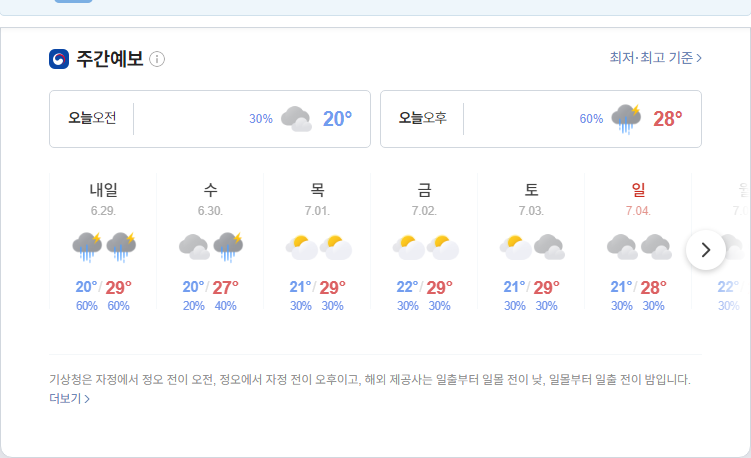
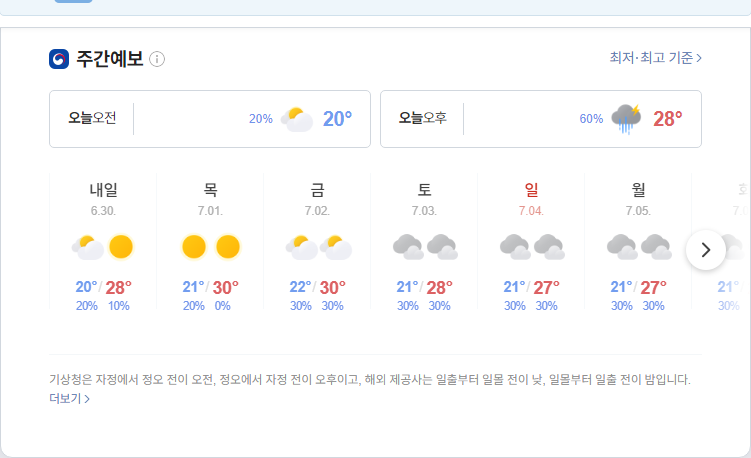
update result

diff --git a/README.md b/README.md
@@ -1,5 +1,5 @@
-##  2021-06-28 16:02:44   월요일 
-##### 날씨   -   어제보다 2° 낮아요구름많음  
+##  2021-06-29 05:54:50   화요일 
+##### 날씨   -   어제보다 3° 낮아요맑음  
 <center><img src="../img/naver_weather_week.png"></center>
 ----
 ----
@@ -13,17 +13,17 @@
 ##### 세계
 <table border="1" bordercolor="blue" align = "center" >
 <tr align = "right" > <td>Item</td><td>Point</td><td>Diff</td><td>Rate</td><td>Buy</td><td>Sell</td><td>...</td>  </tr>
-<tr align = "right" > <td>DOW</td><td>34,433.84</td><td>237.02</td><td><font size="3" color="red" >0.69%</font></td><td><font size="3" color="black">0</font></td><td><font size="3" color="black">0</font></td><td>0</td>  </tr>
-<tr align = "right" > <td>NASDAQ</td><td>14,360.39</td><td>-9.32</td><td><font size="3" color="blue" >-0.06%</font></td><td><font size="3" color="black">0</font></td><td><font size="3" color="black">0</font></td><td>0</td>  </tr>
-<tr align = "right" > <td>S&P</td><td>4,280.7</td><td>14.21</td><td><font size="3" color="red" >0.33%</font></td><td><font size="3" color="black">0</font></td><td><font size="3" color="black">0</font></td><td>0</td>  </tr>
-<tr align = "right" > <td>SHANHAI</td><td>3,603.73</td><td>-3.83</td><td><font size="3" color="blue" >-0.11%</font></td><td><font size="3" color="black">0</font></td><td><font size="3" color="black">0</font></td><td>0</td>  </tr>
-<tr align = "right" > <td>INDIA</td><td>52,779.3</td><td>-145.74</td><td><font size="3" color="blue" >-0.28%</font></td><td><font size="3" color="black">0</font></td><td><font size="3" color="black">0</font></td><td>0</td>  </tr>
+<tr align = "right" > <td>DOW</td><td>34,283.27</td><td>-150.57</td><td><font size="3" color="blue" >-0.44%</font></td><td><font size="3" color="black">0</font></td><td><font size="3" color="black">0</font></td><td>0</td>  </tr>
+<tr align = "right" > <td>NASDAQ</td><td>14,500.51</td><td>140.12</td><td><font size="3" color="red" >0.98%</font></td><td><font size="3" color="black">0</font></td><td><font size="3" color="black">0</font></td><td>0</td>  </tr>
+<tr align = "right" > <td>S&P</td><td>4,290.61</td><td>9.91</td><td><font size="3" color="red" >0.23%</font></td><td><font size="3" color="black">0</font></td><td><font size="3" color="black">0</font></td><td>0</td>  </tr>
+<tr align = "right" > <td>SHANHAI</td><td>3,606.37</td><td>-1.19</td><td><font size="3" color="blue" >-0.03%</font></td><td><font size="3" color="black">0</font></td><td><font size="3" color="black">0</font></td><td>0</td>  </tr>
+<tr align = "right" > <td>INDIA</td><td>52,735.59</td><td>-189.45</td><td><font size="3" color="blue" >-0.36%</font></td><td><font size="3" color="black">0</font></td><td><font size="3" color="black">0</font></td><td>0</td>  </tr>
 </table>
 ----
 ##### 시장
 <table border="1" bordercolor="blue" align = "center" >
 <tr align = "right" > <td>Item</td><td>Price</td><td>Diff</td><td>Rate</td><td>Buy</td><td>Sell</td><td>...</td>  </tr>
-<tr align = "right" > <td>USD</td><td>1,131.0</td><td>2.5</td><td><font size="3" color="red">0.22%</font></td><td><font size="3" color="black">1,110</font></td><td><font size="3" color="black">0</font></td><td>0</td>  </tr>
+<tr align = "right" > <td>USD</td><td>1,131.0</td><td>3.0</td><td><font size="3" color="red">0.27%</font></td><td><font size="3" color="black">1,110</font></td><td><font size="3" color="black">0</font></td><td>0</td>  </tr>
 <tr align = "right" > <td>WTI</td><td>74.05</td><td>0.75</td><td><font size="3" color="red">1.02%</font></td><td><font size="3" color="black">29.0</font></td><td><font size="3" color="black">0</font></td><td>0</td>  </tr>
 <tr align = "right" > <td>GOLD</td><td>1,777.0</td><td>1.2</td><td><font size="3" color="red">0.06%</font></td><td><font size="3" color="black">0</font></td><td><font size="3" color="black">0</font></td><td>0</td>  </tr>
 </table>
